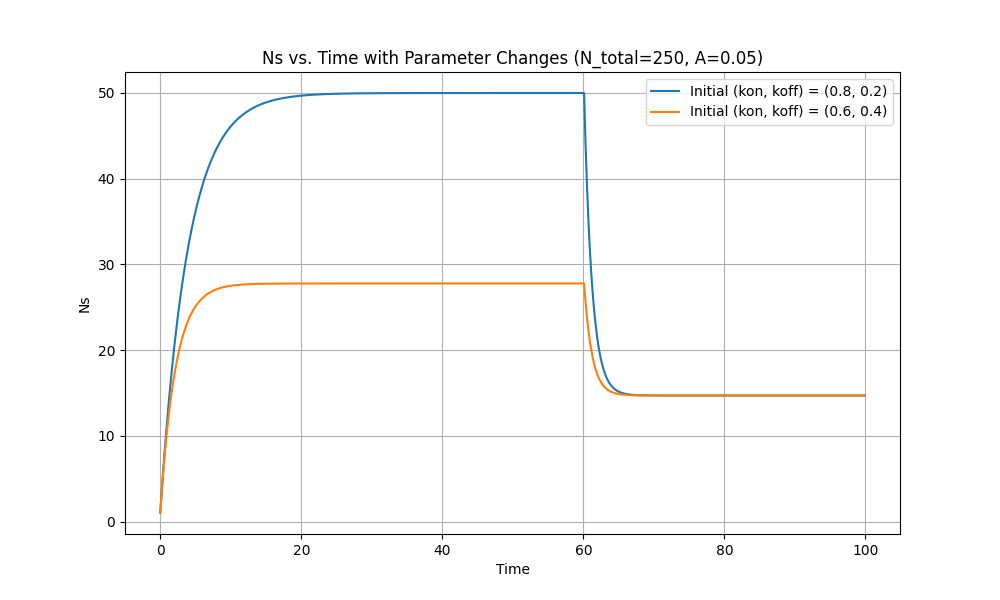
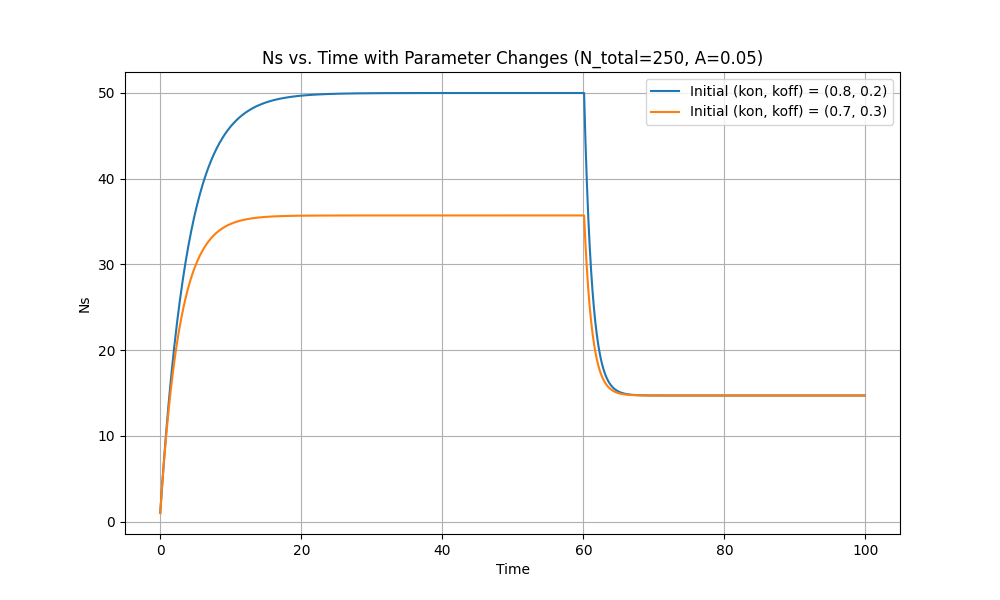
10302

diff --git a/theory_change.py b/theory_change.py
@@ -13,8 +13,8 @@ dt = 0.1
 t_values = np.arange(t_start, t_end, dt)
 
 # 各(kon, koff)の組み合わせと初期値
-parameter_combinations = [(0.8, 0.2), (0.6, 0.4)]
-initial_kon_koff = [(0.8, 0.2), (0.6, 0.4)]
+parameter_combinations = [(0.2, 0.8), (0.7, 0.3)]
+initial_kon_koff = [(0.2, 0.8), (0.7, 0.3)]
 
 # プロット
 plt.figure(figsize=(10, 6))
@@ -29,7 +29,7 @@ for i, (initial_kon, initial_koff) in enumerate(initial_kon_koff):
 
         if t == 60:
             # 初期 (kon, koff) を変更
-            initial_kon, initial_koff = (0.2, 0.8)
+            initial_kon, initial_koff = (0.8, 0.2)
 
     plt.plot(t_values, Ns_values, label=f'Initial (kon, koff) = ({parameter_combinations[i][0]}, {parameter_combinations[i][1]})')
 
@@ -40,7 +40,7 @@ plt.title(f'Ns vs. Time with Parameter Changes (N_total={N_total}, A={A})')
 plt.grid(True)
 
 # グラフを保存
-plt.savefig('1029_houkai_Ns_vs_Time_with_Parameter_Changes.png')
+plt.savefig('1029_seisei_Ns_vs_Time_with_Parameter_Changes.png')
 
 plt.show()
 
